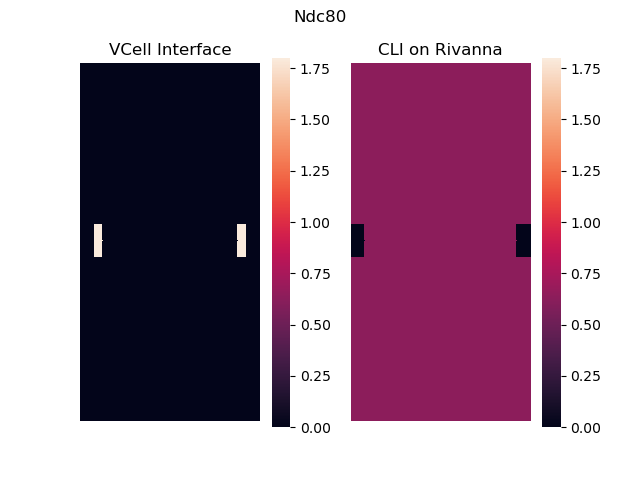
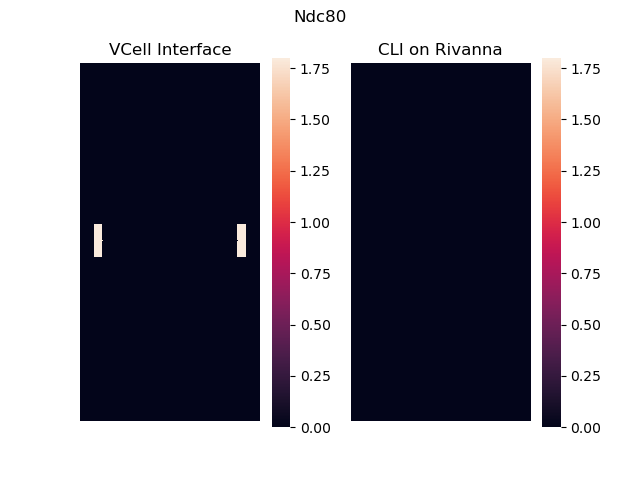
parameter scan plotting and comparing gui to cli

Changed region(s): [[0.5312, 0.125, 0.8438, 0.875]]

diff --git a/python_plotting/parameter_scan_plots.py b/python_plotting/parameter_scan_plots.py
@@ -1,0 +1,74 @@
+import pandas as pd
+import seaborn as sns
+import matplotlib.pyplot as plt
+import numpy as np
+in_dir = "/Users/smgroves/Box/CPC_Model_Project/vcell_plots"
+
+def lineplot(species, in_dir, sim_prefix, name_scan, num_scans, xmax = None, xmin = 0, log = False,
+             location = 'ic',column = "Sum_Active", active = 'active', name = None):
+    plot_data = pd.DataFrame()
+    if xmax is not None:
+        step = (xmax - xmin) / (num_scans - 1)
+        param_range = np.arange(start=xmin, stop=xmax+step, step=step)
+    else:
+        param_range = np.arange(num_scans)
+    for i in range(num_scans):
+        # if i == 5: continue
+        param = param_range[i]
+        tmp = pd.read_csv(f"{in_dir}/{sim_prefix}{i}/data/data_{active}_{location}_{species}.csv", header = 0, index_col = None)
+        tmp['Time'] = 10*tmp['Time']
+        tmp['parameter'] = param
+        plot_data = pd.concat([plot_data,tmp[['parameter',column, 'Time']]], ignore_index=True)
+    ax = sns.lineplot(x = plot_data['Time'].to_numpy(), y= plot_data[column].to_numpy(), hue = plot_data['parameter'].to_numpy())
+    plt.xlabel("Time (s)")
+    if name is not None:
+        plt.ylabel(f"{name} Concentration (uM)")
+        plt.title(f"{name} Concentration over {plot_data['Time'].max()} seconds")
+
+    else:
+        if column.startswith('Sum'):
+            plt.ylabel(f"Sum of {active} {species} Concentration (uM)")
+            plt.title(f"Sum of {active} {species} Concentration over {plot_data['Time'].max()} seconds \n"
+                      f"Parameter scan over {name_scan}")
+        else:
+            plt.ylabel(f"{species} Concentration (uM)")
+            plt.title(f"{species} Concentration over {plot_data['Time'].max()} seconds")
+
+    if xmax is not None:
+        norm = plt.Normalize(xmin, xmax)
+    else:
+        norm = plt.Normalize(0, 100)
+    sm = plt.cm.ScalarMappable(cmap=sns.cubehelix_palette(as_cmap=True), norm=norm)
+    sm.set_array([])
+    # Remove the legend and add a colorbar (optional)
+    ax.get_legend().remove()
+    if xmax is not None:
+        ax.figure.colorbar(sm, label = f"{name_scan} (uM)", ticks=param_range)
+    else:
+        ax.figure.colorbar(sm, label = f"{name_scan} (%)")
+    plt.tight_layout()
+    plt.show()
+#
+# sim_prefix = "03_08_24_relaxed_RefModel_Bub1_scan"
+# name_scan = 'Bub1 IC'
+# num_scans = 11
+# log = False
+# xmin = 0
+# xmax = 0.03*13.587
+# lineplot('CPC', in_dir, sim_prefix, name_scan, num_scans, xmax)
+
+# sim_prefix = "03_08_24_relaxed_RefModel_Knl1_scan"
+# name_scan = 'Knl1 IC'
+# num_scans = 10
+# log = False
+# xmin = 0
+# xmax = 12*15
+# lineplot('CPC', in_dir, sim_prefix, name_scan, num_scans, xmax)
+
+sim_prefix = "02_19_24_relaxed_RefModel_Mps1_phos_Plk1a_20Pac_transactiv_CPCi_scan_FIXED_not20Pac "
+name_scan = 'CPCi IC'
+num_scans = 11
+log = False
+xmin = 0
+xmax = 1.065
+lineplot('CPC', in_dir, sim_prefix, name_scan, num_scans, xmax)

diff --git a/vcell_gui_vs_cli.py b/vcell_gui_vs_cli.py
@@ -10,8 +10,8 @@ simID = "264596882"
 param_scan = 0
 gui_dir = f'/Users/smgroves/Box/CPC_Model_Project/VCell_Exports/SimID_{simID}_0__exported' #base
 #SimID_264596885_0__exported CPCi IC scan
-cli_dir = '/Users/smgroves/Documents/GitHub/VCell_Analysis/vcell_out/_10_16_23/simulations/_10_16_23_tensed_RefModel_Mps1_phos_Plk1a_20Pac_transactiv/data'
-
+# cli_dir = '/Users/smgroves/Documents/GitHub/VCell_Analysis/vcell_out/_10_16_23/simulations/_10_16_23_tensed_RefModel_Mps1_phos_Plk1a_20Pac_transactiv/data'
+cli_dir = "/Users/smgroves/Box/CPC_Model_Project/VCell_Rivanna_Exports/_03_15_24_TEST_CPC_tensed_RefModel_128x64_to_omex_SBML_units.omex/simulations/_10_16_23_tensed_RefModel_Mps1_phos_Plk1a_20Pac_transactiv/data"
 default_species = ["Bub1a", "Bub1a_his","CPCa","CPCi", "H2A", "H3", "Haspina","Haspini","Knl1","Mps1a","Mps1i", "Ndc80",
             "Ndc80_Mps1a", "Ndc80_Mps1i", "Ndc80_pMps1a", "Ndc80_pMps1i", "pH2A","pH2A_Sgo1","pH2A_Sgo1_CPCa","pH2A_Sgo1_CPCi",
             "pH2A_Sgo1_pH3_CPCa", "pH2A_Sgo1_pH3_CPCi", "pH3","pH3_CPCa","pH3_CPCi","pKnl1","pKnl1_Bub1a","Plk1a","Plk1i",
@@ -28,5 +28,5 @@ for s in default_species:
                 vmax = vmax, cmap = 'rocket', ax = ax2)
     ax1.set_title('VCell Interface')
     ax2.set_title('CLI on Rivanna')
-    plt.savefig(f"/Users/smgroves/Documents/GitHub/VCell_Analysis/vcell_out/cli_vs_gui/{s}.png")
+    plt.savefig(f"/Users/smgroves/Documents/GitHub/VCell_Analysis/vcell_out/cli_vs_gui_03_18_24/{s}.png")
     plt.close()
